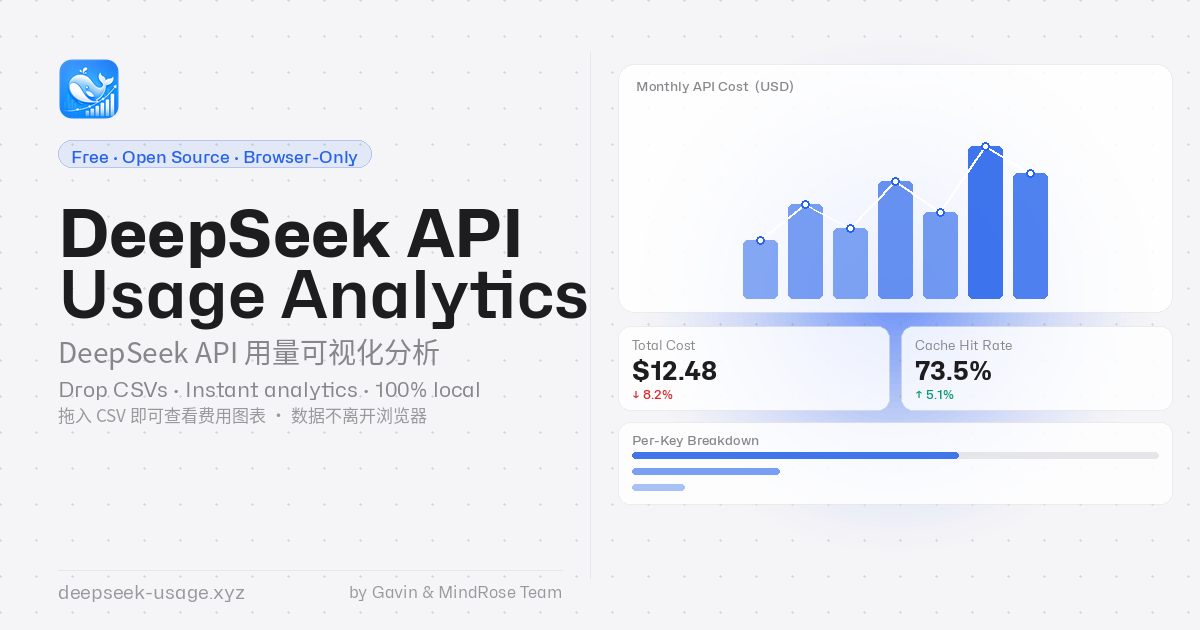
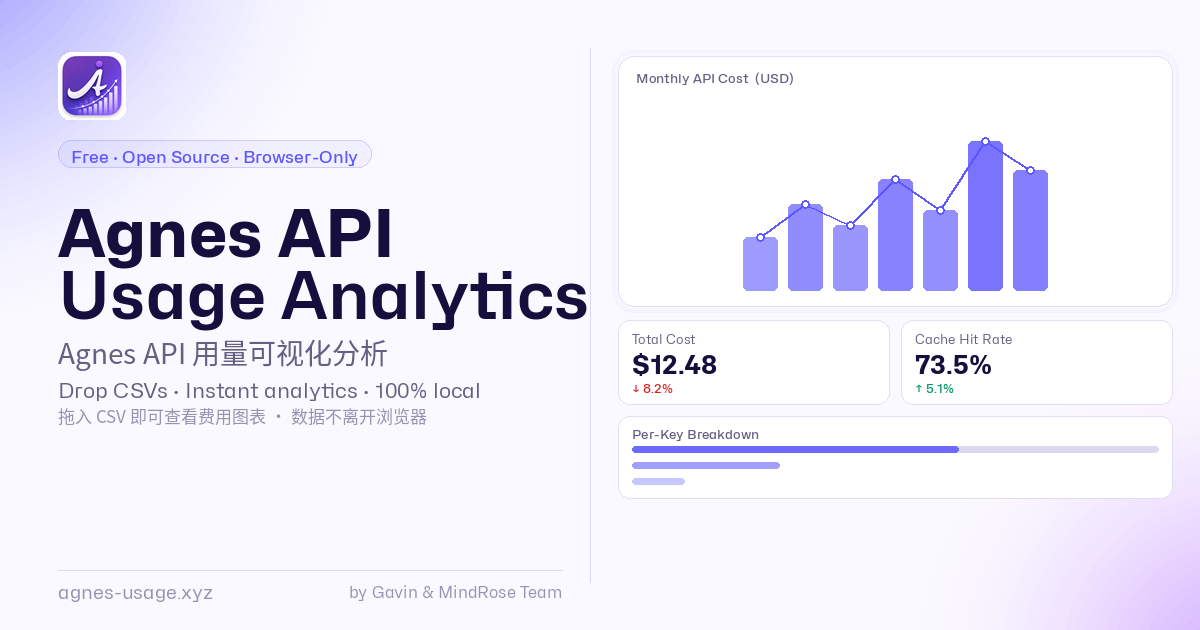
refactor: 全量替换项目品牌与外部引用至agnes-usage
- 新增agnes-usage系列图标文件，删除旧的ds-usage与废弃landing页资源
- 更新全站域名从 https://deepseek-usage.xyz 至 https://agnes-usage.xyz
- 将GitHub仓库链接更新为新的agnes-api-usage-analysis地址
- 同步更新所有文档、页面元数据、配置文件与代码中的相关引用
- 修正.gitignore中的注释描述适配新的项目名称

diff --git a/src/components/ChangelogPage.tsx b/src/components/ChangelogPage.tsx
@@ -44,8 +44,8 @@ const CHANGELOG_DATA: VersionEntry[] = [
     date: "2026-06-28",
     added: [
       {
-        zh: "将输入模型正式切换为 Agnes usage 单 CSV，并基于 Secret Key、Model、Amount、Quantity、Time、Status 字段完成浏览器端聚合分析。",
-        en: "Switched the input model to a single Agnes usage CSV and completed in-browser aggregation around Secret Key, Model, Amount, Quantity, Time, and Status fields.",
+        zh: "基于前期本团队开源项目 deepseek-api-usage-analysis，构建此工程，将输入切换为 Agnes usage CSV。",
+        en: "Switched the input to a single Agnes usage CSV base on our existing open-source project deepseek-api-usage-analysis.",
       },
       {
         zh: "保留 Overview、By Project、By Key、Trends 四个标签页，并适配 Agnes 的 Cost、Tokens、Requests 统计口径。",
@@ -62,15 +62,11 @@ const CHANGELOG_DATA: VersionEntry[] = [
         en: "Streamlined uploads to a single CSV flow with explicit handling for multiple files, non-CSV files, and oversized files.",
       },
       {
-        zh: "分享卡、SEO 文案、法律页和 README 说明全面切换到 Agnes 语义，同时保留现有站点域名与外链作为迁移期占位。",
-        en: "Updated share-card copy, SEO text, legal pages, and README content to Agnes wording while keeping the existing domain and outbound links as temporary migration placeholders.",
+        zh: "分享卡、SEO 文案、法律页和 README 说明全面切换到 Agnes 语义。",
+        en: "Updated share-card copy, SEO text, legal pages, and README content to Agnes wording.",
       },
     ],
     fixed: [
-      {
-        zh: "移除了旧的 Cache 视图、ZIP / 双文件配对叙事和 DeepSeek 绑定说明，避免用户按照过期流程操作。",
-        en: "Removed the legacy Cache view, ZIP / dual-file pairing narrative, and DeepSeek-specific guidance so users are no longer led into outdated workflows.",
-      },
       {
         zh: "解析器只统计 success 状态，并对异常 Quantity 字符串给出 warning，而不是直接导致页面失败。",
         en: "The parser now counts only success rows and emits warnings for malformed quantity strings instead of failing the whole page.",
@@ -117,7 +113,7 @@ export function ChangelogPage() {
       isPartOf: {
         "@type": "WebSite",
         name: "Agnes AI Usage Analysis",
-        url: "https://deepseek-usage.xyz",
+        url: "https://agnes-usage.xyz",
       },
     };
   }, [isZh]);
@@ -252,7 +248,7 @@ export function ChangelogPage() {
 
         <p className="text-xs" style={{ color: "var(--text-tertiary)" }}>
           <a
-            href="https://github.com/GavinCnod/deepseek-api-usage-analysis"
+            href="https://github.com/GavinCnod/agnes-api-usage-analysis"
             target="_blank"
             rel="noopener noreferrer"
             className="underline underline-offset-2 transition-colors duration-200"

diff --git a/src/__tests__/schema.test.ts b/src/__tests__/schema.test.ts
@@ -8,10 +8,10 @@ describe("buildOrganizationJsonLd", () => {
     expect(result["@context"]).toBe("https://schema.org");
     expect(result["@type"]).toBe("Organization");
     expect(result.name).toContain("Agnes");
-    expect(result.url).toContain("deepseek-usage.xyz");
-    expect(result.logo).toContain("ds-usage-logo.png");
+    expect(result.url).toContain("agnes-usage.xyz");
+    expect(result.logo).toContain("agnes-usage-logo.png");
     expect(result.sameAs).toEqual([
-      "https://github.com/GavinCnod/deepseek-api-usage-analysis",
+      "https://github.com/GavinCnod/agnes-api-usage-analysis",
     ]);
   });
 

diff --git a/src/app/changelog/page.tsx b/src/app/changelog/page.tsx
@@ -4,7 +4,7 @@ import ChangelogContent from "@/components/ChangelogContent";
 
 /** 站点公开 URL（构建时从 .env 注入） */
 const SITE_URL =
-  process.env.NEXT_PUBLIC_SITE_URL || "https://deepseek-usage.xyz";
+  process.env.NEXT_PUBLIC_SITE_URL || "https://agnes-usage.xyz";
 
 /**
  * 动态生成更新日志页元数据（SEO）
@@ -33,7 +33,7 @@ export function generateMetadata(): Metadata {
       alternateLocale: ["zh_CN"],
       images: [
         {
-          url: `${SITE_URL}/ds-usage-logo.png`,
+          url: `${SITE_URL}/agnes-usage-logo.png`,
           width: 512,
           height: 512,
           alt: "Agnes AI Usage Analytics Dashboard logo",
@@ -47,7 +47,7 @@ export function generateMetadata(): Metadata {
       creator: "@GavinCnod",
       title,
       description,
-      images: [`${SITE_URL}/ds-usage-logo.png`],
+      images: [`${SITE_URL}/agnes-usage-logo.png`],
     },
     keywords: ["Agnes AI dashboard changelog", "API analytics release notes", "Agnes AI 更新日志"],
     authors: [{ name: "Gavin & Mindrose Team" }],

diff --git a/src/app/guideline/page.tsx b/src/app/guideline/page.tsx
@@ -3,7 +3,7 @@ import { GuidelinePage } from "@/components/GuidelinePage";
 
 /** 站点公开 URL（构建时从 .env 注入） */
 const SITE_URL =
-  process.env.NEXT_PUBLIC_SITE_URL || "https://deepseek-usage.xyz";
+  process.env.NEXT_PUBLIC_SITE_URL || "https://agnes-usage.xyz";
 
 /**
  * 动态生成指南页元数据（SEO）
@@ -32,7 +32,7 @@ export function generateMetadata(): Metadata {
       alternateLocale: ["zh_CN"],
       images: [
         {
-          url: `${SITE_URL}/ds-usage-logo.png`,
+          url: `${SITE_URL}/agnes-usage-logo.png`,
           width: 512,
           height: 512,
           alt: "Agnes AI Usage Analytics Dashboard logo",
@@ -46,7 +46,7 @@ export function generateMetadata(): Metadata {
       creator: "@GavinCnod",
       title,
       description,
-      images: [`${SITE_URL}/ds-usage-logo.png`],
+      images: [`${SITE_URL}/agnes-usage-logo.png`],
     },
     keywords: [
       "Agnes AI usage guide",

diff --git a/src/app/layout.tsx b/src/app/layout.tsx
@@ -16,7 +16,7 @@ const geistMono = Geist_Mono({
 
 /** 站点公开 URL（构建时从 .env 注入） */
 const SITE_URL =
-  process.env.NEXT_PUBLIC_SITE_URL || "https://deepseek-usage.xyz";
+  process.env.NEXT_PUBLIC_SITE_URL || "https://agnes-usage.xyz";
 
 /** Google Analytics 测量 ID（构建时从 .env 注入） */
 const GA_ID = process.env.NEXT_PUBLIC_GA_ID;
@@ -63,7 +63,7 @@ export function generateMetadata(): Metadata {
           type: "image/png",
         },
         {
-          url: `${SITE_URL}/ds-usage-logo.png`,
+          url: `${SITE_URL}/agnes-usage-logo.png`,
           width: 512,
           height: 512,
           alt: "Agnes AI Usage Analytics Dashboard logo",
@@ -90,7 +90,7 @@ export function generateMetadata(): Metadata {
     ],
     authors: [{ name: "Gavin & Mindrose Team" }],
     icons: {
-      icon: "/ds-usage-logo.ico",
+      icon: "/agnes-usage-logo.ico",
     },
     robots: {
       index: true,

diff --git a/src/app/privacy/page.tsx b/src/app/privacy/page.tsx
@@ -4,7 +4,7 @@ import PrivacyContent from "@/components/PrivacyContent";
 
 /** 站点公开 URL（构建时从 .env 注入） */
 const SITE_URL =
-  process.env.NEXT_PUBLIC_SITE_URL || "https://deepseek-usage.xyz";
+  process.env.NEXT_PUBLIC_SITE_URL || "https://agnes-usage.xyz";
 
 /**
  * 动态生成隐私政策页元数据（SEO）
@@ -33,7 +33,7 @@ export function generateMetadata(): Metadata {
       alternateLocale: ["zh_CN"],
       images: [
         {
-          url: `${SITE_URL}/ds-usage-logo.png`,
+          url: `${SITE_URL}/agnes-usage-logo.png`,
           width: 512,
           height: 512,
           alt: "Agnes AI Usage Analytics Dashboard logo",
@@ -47,7 +47,7 @@ export function generateMetadata(): Metadata {
       creator: "@GavinCnod",
       title,
       description,
-      images: [`${SITE_URL}/ds-usage-logo.png`],
+      images: [`${SITE_URL}/agnes-usage-logo.png`],
     },
     keywords: ["Agnes AI dashboard privacy", "API usage analytics privacy", "Agnes AI 隐私政策"],
     authors: [{ name: "Gavin & Mindrose Team" }],

diff --git a/src/app/terms/page.tsx b/src/app/terms/page.tsx
@@ -4,7 +4,7 @@ import TermsContent from "@/components/TermsContent";
 
 /** 站点公开 URL（构建时从 .env 注入） */
 const SITE_URL =
-  process.env.NEXT_PUBLIC_SITE_URL || "https://deepseek-usage.xyz";
+  process.env.NEXT_PUBLIC_SITE_URL || "https://agnes-usage.xyz";
 
 /**
  * 动态生成使用条款页元数据（SEO）
@@ -33,7 +33,7 @@ export function generateMetadata(): Metadata {
       alternateLocale: ["zh_CN"],
       images: [
         {
-          url: `${SITE_URL}/ds-usage-logo.png`,
+          url: `${SITE_URL}/agnes-usage-logo.png`,
           width: 512,
           height: 512,
           alt: "Agnes AI Usage Analytics Dashboard logo",
@@ -47,7 +47,7 @@ export function generateMetadata(): Metadata {
       creator: "@GavinCnod",
       title,
       description,
-      images: [`${SITE_URL}/ds-usage-logo.png`],
+      images: [`${SITE_URL}/agnes-usage-logo.png`],
     },
     keywords: ["Agnes AI dashboard terms", "open source analytics terms", "Agnes AI 使用条款"],
     authors: [{ name: "Gavin & Mindrose Team" }],

diff --git a/src/components/PrivacyPage.tsx b/src/components/PrivacyPage.tsx
@@ -54,7 +54,7 @@ export function PrivacyPage() {
       isPartOf: {
         "@type": "WebSite",
         name: "Agnes AI Usage Analysis",
-        url: "https://deepseek-usage.xyz",
+        url: "https://agnes-usage.xyz",
       },
     };
   }, [locale]);
@@ -191,7 +191,7 @@ export function PrivacyPage() {
             {/* 源码审查链接 */}
             {section.reviewLink && (
               <a
-                href="https://github.com/GavinCnod/deepseek-api-usage-analysis"
+                href="https://github.com/GavinCnod/agnes-api-usage-analysis"
                 target="_blank"
                 rel="noopener noreferrer"
                 className="inline-flex items-center gap-1 text-xs mt-2 underline underline-offset-2 transition-colors duration-200"
@@ -230,7 +230,7 @@ export function PrivacyPage() {
           style={{ color: "var(--text-tertiary)" }}
         >
           <a
-            href="https://github.com/GavinCnod/deepseek-api-usage-analysis"
+            href="https://github.com/GavinCnod/agnes-api-usage-analysis"
             target="_blank"
             rel="noopener noreferrer"
             className="underline underline-offset-2 transition-colors duration-200"

diff --git a/src/components/TermsPage.tsx b/src/components/TermsPage.tsx
@@ -53,7 +53,7 @@ export function TermsPage() {
       isPartOf: {
         "@type": "WebSite",
         name: "Agnes AI Usage Analysis",
-        url: "https://deepseek-usage.xyz",
+        url: "https://agnes-usage.xyz",
       },
     };
   }, [locale]);
@@ -193,7 +193,7 @@ export function TermsPage() {
             {/* 源码审查链接 */}
             {section.reviewLink && (
               <a
-                href="https://github.com/GavinCnod/deepseek-api-usage-analysis"
+                href="https://github.com/GavinCnod/agnes-api-usage-analysis"
                 target="_blank"
                 rel="noopener noreferrer"
                 className="inline-flex items-center gap-1 text-xs mt-2 underline underline-offset-2 transition-colors duration-200"
@@ -232,7 +232,7 @@ export function TermsPage() {
           style={{ color: "var(--text-tertiary)" }}
         >
           <a
-            href="https://github.com/GavinCnod/deepseek-api-usage-analysis"
+            href="https://github.com/GavinCnod/agnes-api-usage-analysis"
             target="_blank"
             rel="noopener noreferrer"
             className="underline underline-offset-2 transition-colors duration-200"

diff --git a/src/lib/schema.ts b/src/lib/schema.ts
@@ -15,7 +15,7 @@ const APP_VERSION = "0.1.0";
 
 /** 站点公开 URL */
 const SITE_URL =
-  process.env.NEXT_PUBLIC_SITE_URL || "https://deepseek-usage.xyz";
+  process.env.NEXT_PUBLIC_SITE_URL || "https://agnes-usage.xyz";
 
 /** SoftwareApplication Schema 翻译 */
 const softwareAppSchema: Record<
@@ -255,8 +255,8 @@ export function buildOrganizationJsonLd(locale: Locale): Record<string, unknown>
     "@type": "Organization",
     name: t.name,
     url: SITE_URL,
-    logo: `${SITE_URL}/ds-usage-logo.png`,
+    logo: `${SITE_URL}/agnes-usage-logo.png`,
     description: t.description,
-    sameAs: ["https://github.com/GavinCnod/deepseek-api-usage-analysis"],
+    sameAs: ["https://github.com/GavinCnod/agnes-api-usage-analysis"],
   };
 }

diff --git a/src/components/LandingContent.tsx b/src/components/LandingContent.tsx
@@ -133,7 +133,7 @@ export default function LandingContent() {
         </div>
 
         <p>
-          <a href="https://github.com/GavinCnod/deepseek-api-usage-analysis">
+          <a href="https://github.com/GavinCnod/agnes-api-usage-analysis">
             {en.landing.aboutGitHubLabel}
           </a>
         </p>
@@ -169,7 +169,7 @@ export default function LandingContent() {
         </div>
 
         <p>
-          <a href="https://github.com/GavinCnod/deepseek-api-usage-analysis">
+          <a href="https://github.com/GavinCnod/agnes-api-usage-analysis">
             {zh.landing.aboutGitHubLabel}
           </a>
         </p>

diff --git a/src/components/ShareCard.tsx b/src/components/ShareCard.tsx
@@ -434,12 +434,12 @@ export default function ShareCard({
         <div style={{ display: "flex", alignItems: "center", gap: 12 }}>
           {/* 水印文字 */}
           <span style={{ fontSize: 9, color: c.textTertiary, opacity: 0.4, textAlign: "right", lineHeight: 1.4 }}>
-            {s.generatedBy}<br />deepseek-usage.xyz
+            {s.generatedBy}<br />agnes-usage.xyz
           </span>
 
           {/* 应用 Logo */}
           <img
-            src="/ds-usage-logo.png"
+            src="/agnes-usage-logo.png"
             alt="Logo"
             width={44}
             height={44}